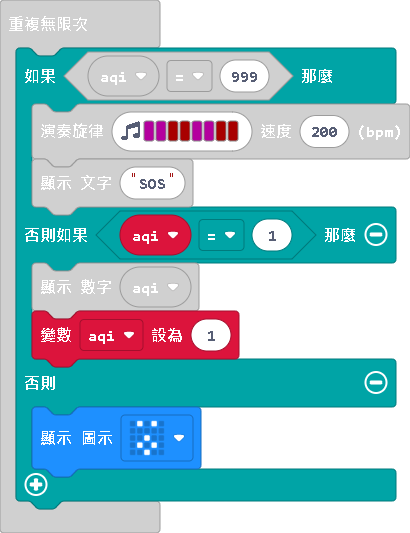
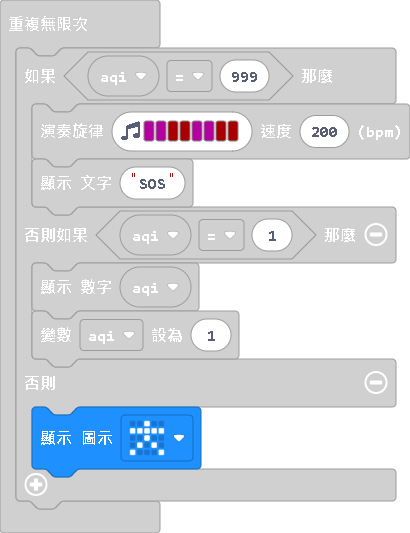
更新 main.blocks, main.ts

diff --git a/main.ts b/main.ts
@@ -16,6 +16,6 @@ basic.forever(function () {
         basic.showNumber(aqi)
         aqi = 1
     } else {
-        basic.showIcon(IconNames.Surprised)
+        basic.showIcon(IconNames.StickFigure)
     }
 })
